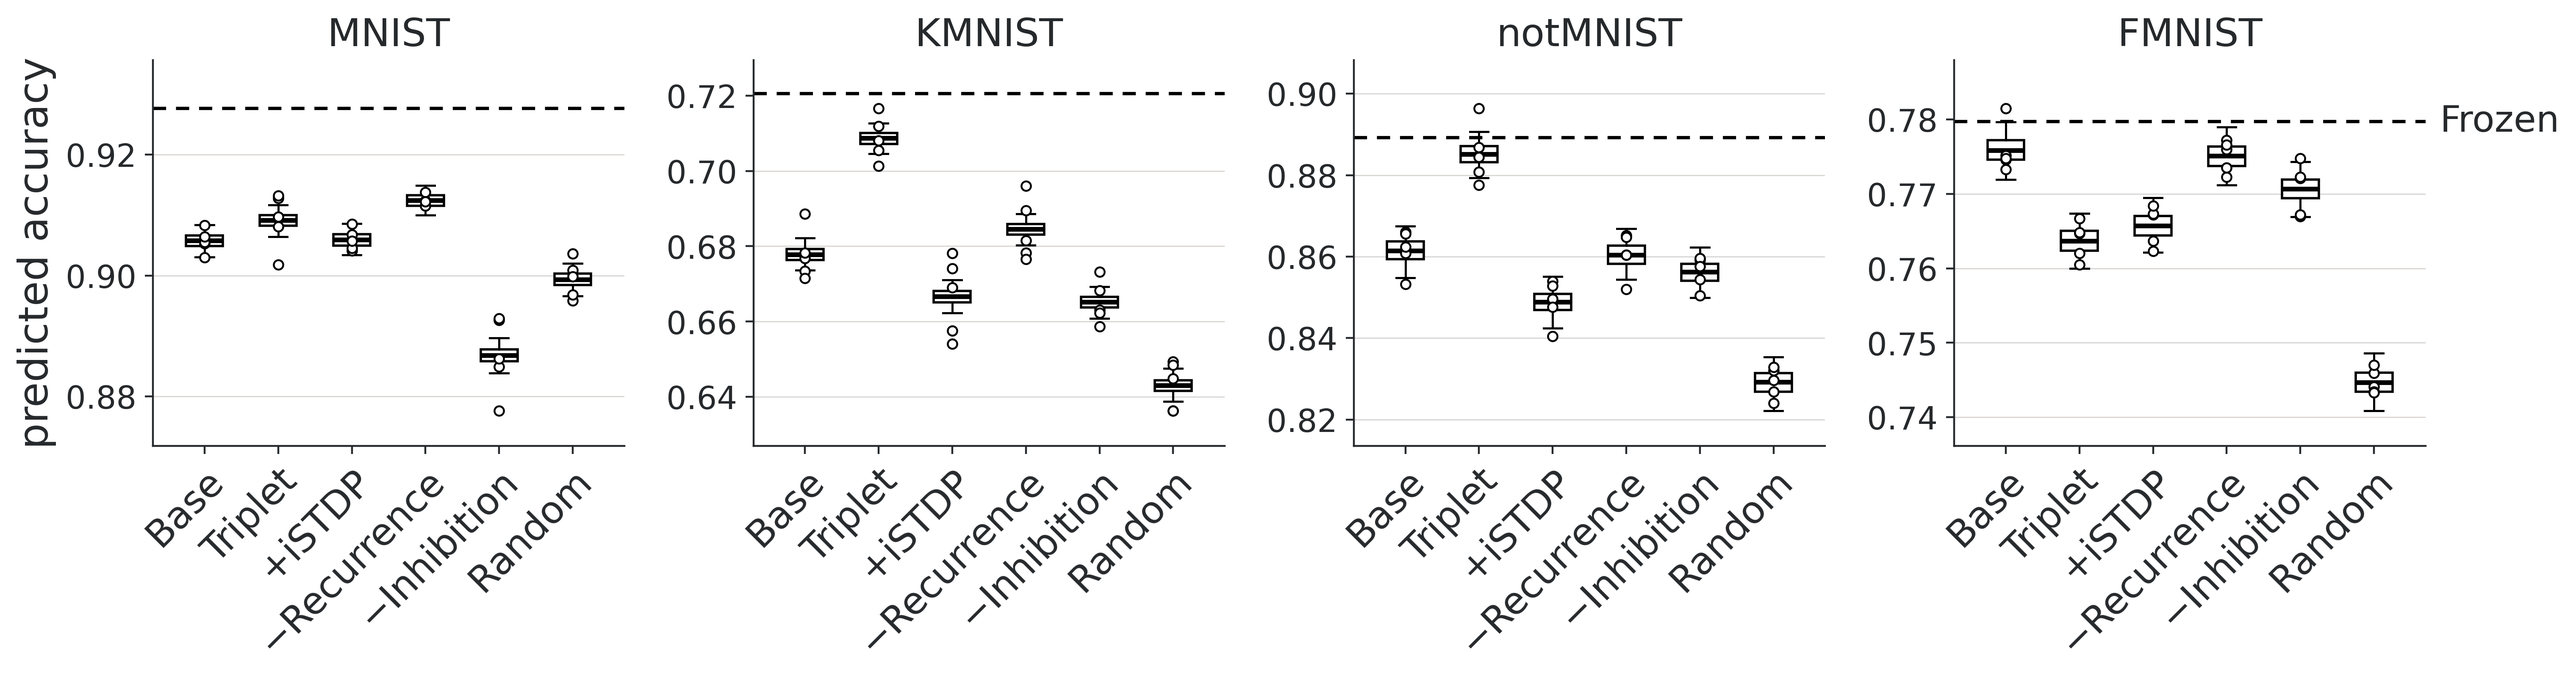
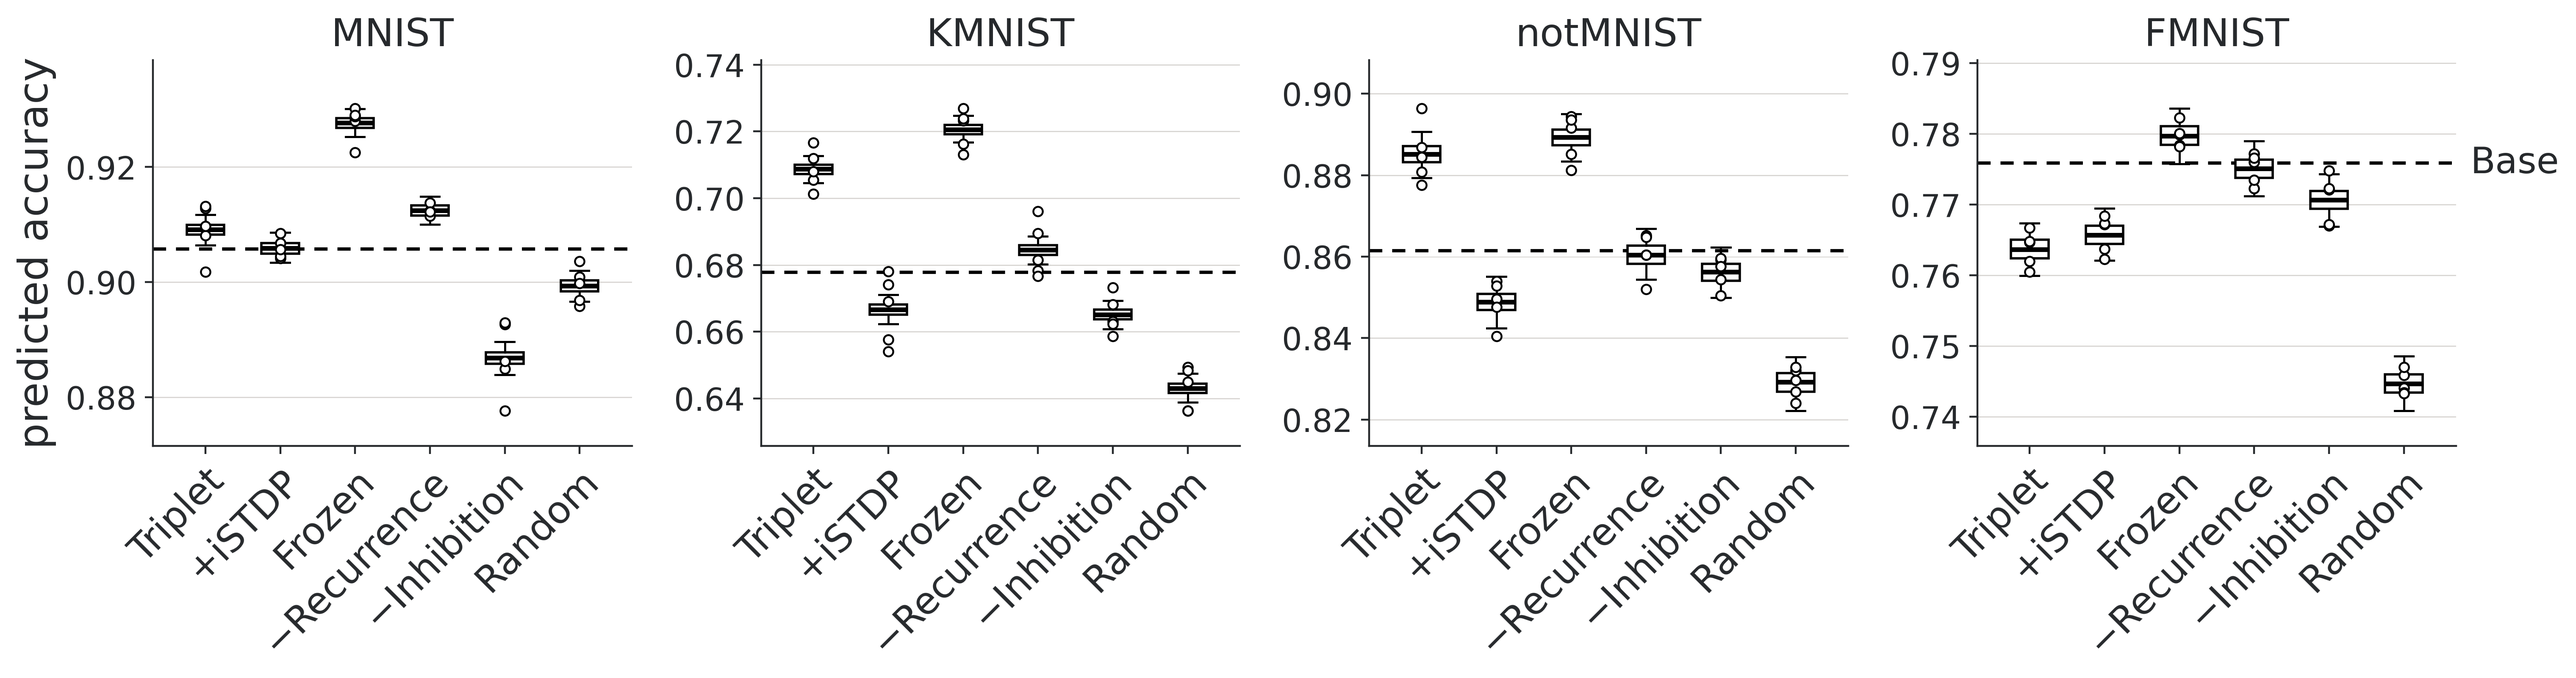
Phase 1 GLMM: reference the base configuration instead of frozen weights
Base (trace-STDP, E->E recurrence, I->E inhibition, oriented prior, plastic
weights) is now the reference level of the ablation factor, so every
configuration coefficient is one change from it. A reparameterization only:
cell predictions are unchanged.

- tab_glmm_phase1: intercept = base on MNIST; frozen and random init are rows
- tab_phase1: one block of single changes against base, grouped as learning
  rule / connectivity / prior; the RF contrast is the random-init row
- fig_phase1_predicted: base is the dashed reference, frozen gets a box
- methods_glmm: state the new reference level

The R fit scripts (results/interp/model/*.R) are gitignored and were updated
in place.

diff --git a/experiments/RF_article/make_tables.py b/experiments/RF_article/make_tables.py
@@ -17,9 +17,8 @@ Sources:
     <phase2 runs>/results.json                  selective-prediction coverage, per seed
 
 Tables written to results/tables/:
-    tab_phase1.tex           mechanism ablations vs frozen, plus the RF-vs-random
-                             contrast (one table: the second was a difference of two
-                             rows of the first)
+    tab_phase1.tex           every single change against the base configuration,
+                             the RF-vs-random contrast included as its own row
     tab_phase2_prior.tex     oriented vs random under R-STDP, both decoders
     tab_selective.tex        coverage attainable at three accuracy targets
 
@@ -39,8 +38,8 @@ DS = ["mnist", "fmnist", "kmnist", "notmnist"]
 PRETTY = {"mnist": "MNIST", "fmnist": "Fashion", "kmnist": "KMNIST",
           "notmnist": "notMNIST", "svhn": "SVHN"}
 COND = {"base_ori": "trace-STDP", "triplet": "triplet-STDP", "vogels": "+ iSTDP (Vogels)",
-        "ee_off": "no E$\\to$E recurrence", "ie_off": "no I$\\to$E inhibition",
-        "base_rnd": "trace-STDP, random init"}
+        "frozen": "frozen weights", "ee_off": "no E$\\to$E recurrence",
+        "ie_off": "no I$\\to$E inhibition", "base_rnd": "random initialization"}
 
 
 def load_draws():
@@ -93,52 +92,47 @@ def write(name, body):
 
 # ------------------------------------------------------- table 1 (phase 1, merged)
 
-# Mechanism ablations: oriented prior throughout, so each row changes exactly one thing
-# against the oriented frozen reference. base_rnd is deliberately NOT here -- it changes
-# the prior AND the rule at once, so it is not comparable to these rows and appears below
-# as the prior contrast instead.
-LADDER = ["base_ori", "triplet", "vogels", "ee_off", "ie_off"]
+# Single changes from the base configuration (trace-STDP, E->E recurrence, I->E inhibition,
+# oriented prior, plastic weights), which is the GLMM's reference level. Every other cell
+# differs from base in exactly one thing, so with base as the reference the prior contrast
+# (base_rnd) sits in the same block as the mechanism ablations instead of needing its own.
+# Grouped as in the phase-1 figure: learning rule, connectivity, prior.
+GROUPS = [("learning rule", ["triplet", "vogels", "frozen"]),
+          ("connectivity", ["ee_off", "ie_off"]),
+          ("prior", ["base_rnd"])]
+LADDER = [c for _, cs in GROUPS for c in cs]
 
 
 def tab_phase1(D):
-    """One phase-1 table: mechanism ablations against frozen, then the prior contrast.
+    """One phase-1 table: each single change against the base configuration.
 
-    These were two tables until it became clear the second was a difference of two rows of
-    the first -- base_ori-frozen minus base_rnd-frozen reproduces the prior contrast to the
-    last reported decimal on all five datasets. Only the interval is new information, since
-    the two cells covary and the width of a difference cannot be read off two separate
-    intervals. So the contrast keeps a row, and the redundant table goes.
+    The reference used to be frozen weights, which put the receptive-field contrast in a
+    second block (its reference was random connectivity). Against base, that contrast is
+    just the random-initialization row, with its sign flipped.
     """
     rows = []
-    for cond in LADDER:
-        cells = [f"${c[0]:+.2f}{stars(c[3])}$" if (c := contrast(D, cond, "frozen", ds))
-                 else "--" for ds in DS]
-        rows.append(f"{COND[cond]} & " + " & ".join(cells) + " \\\\")
-    prior = []
-    for ds in DS:
-        c = contrast(D, "base_ori", "base_rnd", ds)
-        prior.append("--" if c is None else f"${c[0]:+.2f}{stars(c[3])}$")
+    for name, conds in GROUPS:
+        rows.append(f"\\multicolumn{{5}}{{l}}{{\\emph{{{name}}}}} \\\\")
+        for cond in conds:
+            cells = [f"${c[0]:+.2f}{stars(c[3])}$" if (c := contrast(D, cond, "base_ori", ds))
+                     else "--" for ds in DS]
+            rows.append(f"{COND[cond]} & " + " & ".join(cells) + " \\\\")
     header = " & ".join(PRETTY[d] for d in DS)
     # RAW f-string: in a normal one "\begin" is a backspace and "\toprule" a tab, which
     # silently emits control characters into the .tex instead of LaTeX commands.
     return rf"""\begin{{table}}[t]
 \centering
-\caption{{Unsupervised model, in percentage points of accuracy on the linear probe.
-The upper block compares each plastic configuration against frozen weights, holding the
-oriented prior fixed, so every row changes one mechanism. The lower block is the
-receptive-field contrast, holding trace-STDP fixed and changing only the initialization;
-it is reported separately because its reference is random connectivity rather than frozen
-weights. Entries without a marker have intervals spanning zero.}}
+\caption{{Unsupervised model, in percentage points of accuracy on the linear probe,
+against the base configuration: trace-STDP with E$\to$E recurrence and I$\to$E inhibition,
+oriented prior and plastic weights. Every row changes one thing from base, so a positive
+entry means that change improves on it. Entries without a marker have intervals spanning
+zero.}}
 \label{{tab:phase1}}
 \begin{{tabular}}{{lrrrr}}
 \toprule
 & {header} \\
 \midrule
-\multicolumn{{5}}{{l}}{{\emph{{against frozen weights, oriented prior}}}} \\
 {chr(10).join(rows)}
-\midrule
-\multicolumn{{5}}{{l}}{{\emph{{against random connectivity, trace-STDP}}}} \\
-oriented receptive fields & {" & ".join(prior)} \\
 \bottomrule
 \end{{tabular}}
 
@@ -247,8 +241,9 @@ def main():
         c = contrast(D, "base_ori", "base_rnd", ds)
         print(f"  {PRETTY[ds]:<9} {c[0]:+6.2f} pp [{c[1]:+6.2f},{c[2]:+6.2f}] p={c[3]:.4f}")
     print("\n--- phase 1: best plastic - frozen ---")
+    plastic = ["base_ori"] + [c for c in LADDER if c not in ("frozen", "base_rnd")]
     for ds in DS:
-        best = max(LADDER, key=lambda c: D[("1", "probe", ds, c)].mean())
+        best = max(plastic, key=lambda c: D[("1", "probe", ds, c)].mean())
         c = contrast(D, best, "frozen", ds)
         print(f"  {PRETTY[ds]:<9} {best:<9} {c[0]:+6.2f} pp "
               f"[{c[1]:+6.2f},{c[2]:+6.2f}] p={c[3]:.4f}")

diff --git a/results/tables/tab_glmm_phase1.tex b/results/tables/tab_glmm_phase1.tex
@@ -1,31 +1,56 @@
 \footnotesize{
-\begin{longtable}{lrrrr}
+\begin{longtable}{lrrrl}
     \caption{Phase 1 beta-binomial GLMM of linear-probe accuracy: fixed-effect estimates
-    on the logit scale. The reference cell is frozen weights on MNIST. The MNIST column
-    gives each configuration's main effect; the remaining columns give its interaction
-    with that dataset, i.e.\ how much the effect shifts there.\label{tab:glmm_phase1}}\\
+    on the logit scale. The reference cell is the base configuration (trace-STDP with
+    E$\to$E recurrence and I$\to$E inhibition, oriented prior, plastic weights) on MNIST,
+    so each \textit{configuration} row is the effect on MNIST of changing that one
+    component and each interaction row is how that effect changes on the named
+    dataset.\label{tab:glmm_phase1}}\\
     \toprule
-    \textbf{Fixed effect} & MNIST & Fashion & KMNIST & notMNIST\\
+    \textbf{Fixed effect} & Est. & \textit{z} & \textit{p}$_{\text{Holm}}$ & \\
     \midrule
     \endfirsthead
     \toprule
-    Fixed effect & MNIST & Fashion & KMNIST & notMNIST\\
+    Fixed effect & Est. & \textit{z} & \textit{p}$_{\text{Holm}}$ & \\
     \midrule
     \endhead
-    Intercept / dataset & {\scriptsize$\hat{\beta}_{0}$:} 2.552$^{***}$ & {\scriptsize$\hat{\beta}_{7}$:} $-$1.288$^{***}$ & {\scriptsize$\hat{\beta}_{8}$:} $-$1.604$^{***}$ & {\scriptsize$\hat{\beta}_{9}$:} $-$.469$^{***}$\\
-    \multicolumn{5}{l}{\textit{Configuration (vs.\ frozen weights)}}\\
-    trace-STDP & {\scriptsize$\hat{\beta}_{1}$:} $-$.290$^{***}$ & {\scriptsize$\hat{\beta}_{10}$:} .267$^{***}$ & {\scriptsize$\hat{\beta}_{16}$:} .085$^{**}$ & {\scriptsize$\hat{\beta}_{22}$:} .036\\
-    triplet-STDP & {\scriptsize$\hat{\beta}_{5}$:} $-$.249$^{***}$ & {\scriptsize$\hat{\beta}_{14}$:} .158$^{***}$ & {\scriptsize$\hat{\beta}_{20}$:} .190$^{***}$ & {\scriptsize$\hat{\beta}_{26}$:} .209$^{***}$\\
-    + iSTDP & {\scriptsize$\hat{\beta}_{6}$:} $-$.287$^{***}$ & {\scriptsize$\hat{\beta}_{15}$:} .207$^{***}$ & {\scriptsize$\hat{\beta}_{21}$:} .032 & {\scriptsize$\hat{\beta}_{27}$:} $-$.070\\
-    no E$\to$E & {\scriptsize$\hat{\beta}_{3}$:} $-$.208$^{***}$ & {\scriptsize$\hat{\beta}_{12}$:} .181$^{***}$ & {\scriptsize$\hat{\beta}_{18}$:} .035 & {\scriptsize$\hat{\beta}_{24}$:} $-$.055\\
-    no I$\to$E & {\scriptsize$\hat{\beta}_{4}$:} $-$.493$^{***}$ & {\scriptsize$\hat{\beta}_{13}$:} .441$^{***}$ & {\scriptsize$\hat{\beta}_{19}$:} .232$^{***}$ & {\scriptsize$\hat{\beta}_{25}$:} .195$^{***}$\\
-    random & {\scriptsize$\hat{\beta}_{2}$:} $-$.362$^{***}$ & {\scriptsize$\hat{\beta}_{11}$:} .168$^{***}$ & {\scriptsize$\hat{\beta}_{17}$:} .003 & {\scriptsize$\hat{\beta}_{23}$:} $-$.142$^{**}$\\
+    $\hat{\beta}_0$ (intercept) & 2.262 & 143.84 & $<.001$ & ***\\
+    \multicolumn{5}{l}{\textit{Configuration (vs.\ base)}}\\
+    $\hat{\beta}_{1}$ (random init) & $-$.072 & $-$3.28 & $.013$ & *\\
+    $\hat{\beta}_{2}$ (no E$\to$E) & .082 & 3.61 & $.004$ & **\\
+    $\hat{\beta}_{3}$ (frozen weights) & .290 & 12.22 & $<.001$ & ***\\
+    $\hat{\beta}_{4}$ (no I$\to$E) & $-$.203 & $-$9.50 & $<.001$ & ***\\
+    $\hat{\beta}_{5}$ (triplet-STDP) & .041 & 1.82 & $.224$ & \\
+    $\hat{\beta}_{6}$ (+ iSTDP) & .003 & 0.12 & $.908$ & \\
+    \multicolumn{5}{l}{\textit{Dataset (vs.\ MNIST)}}\\
+    $\hat{\beta}_{7}$ (FMNIST) & $-$1.020 & $-$53.13 & $<.001$ & ***\\
+    $\hat{\beta}_{8}$ (KMNIST) & $-$1.519 & $-$81.89 & $<.001$ & ***\\
+    $\hat{\beta}_{9}$ (notMNIST) & $-$.434 & $-$14.24 & $<.001$ & ***\\
+    \multicolumn{5}{l}{\textit{Configuration $\times$ dataset}}\\
+    $\hat{\beta}_{10}$ (random init$\times$FMNIST) & $-$.099 & $-$3.71 & $.003$ & **\\
+    $\hat{\beta}_{11}$ (no E$\to$E$\times$FMNIST) & $-$.086 & $-$3.13 & $.018$ & *\\
+    $\hat{\beta}_{12}$ (frozen weights$\times$FMNIST) & $-$.267 & $-$9.40 & $<.001$ & ***\\
+    $\hat{\beta}_{13}$ (no I$\to$E$\times$FMNIST) & .174 & 6.57 & $<.001$ & ***\\
+    $\hat{\beta}_{14}$ (triplet-STDP$\times$FMNIST) & $-$.109 & $-$4.01 & $.001$ & **\\
+    $\hat{\beta}_{15}$ (+ iSTDP$\times$FMNIST) & $-$.060 & $-$2.21 & $.192$ & \\
+    $\hat{\beta}_{16}$ (random init$\times$KMNIST) & $-$.083 & $-$3.20 & $.015$ & *\\
+    $\hat{\beta}_{17}$ (no E$\to$E$\times$KMNIST) & $-$.051 & $-$1.91 & $.224$ & \\
+    $\hat{\beta}_{18}$ (frozen weights$\times$KMNIST) & $-$.085 & $-$3.09 & $.018$ & *\\
+    $\hat{\beta}_{19}$ (no I$\to$E$\times$KMNIST) & .146 & 5.74 & $<.001$ & ***\\
+    $\hat{\beta}_{20}$ (triplet-STDP$\times$KMNIST) & .105 & 3.96 & $.001$ & **\\
+    $\hat{\beta}_{21}$ (+ iSTDP$\times$KMNIST) & $-$.053 & $-$2.02 & $.221$ & \\
+    $\hat{\beta}_{22}$ (random init$\times$notMNIST) & $-$.178 & $-$4.27 & $<.001$ & ***\\
+    $\hat{\beta}_{23}$ (no E$\to$E$\times$notMNIST) & $-$.090 & $-$2.09 & $.221$ & \\
+    $\hat{\beta}_{24}$ (frozen weights$\times$notMNIST) & $-$.036 & $-$0.79 & $.864$ & \\
+    $\hat{\beta}_{25}$ (no I$\to$E$\times$notMNIST) & .159 & 3.75 & $.003$ & **\\
+    $\hat{\beta}_{26}$ (triplet-STDP$\times$notMNIST) & .173 & 3.89 & $.002$ & **\\
+    $\hat{\beta}_{27}$ (+ iSTDP$\times$notMNIST) & $-$.105 & $-$2.48 & $.106$ & \\
     \midrule
     \multicolumn{5}{l}{\textbf{Random effect variance}}\\
     Seed & \multicolumn{2}{r}{---} & &\\
     \multicolumn{5}{l}{\textbf{Dispersion}}\\
     Model & \multicolumn{2}{r}{$\hat{\phi}=1.8\times 10^{5}$} & &\\
     \bottomrule
-    \caption*{The intercept row gives the intercept and the dataset main effects. Significance: * $p<.05$, ** $p<.01$, *** $p<.001$. The seed intercept was singular and was dropped. The estimated dispersion is large, so the fit is effectively binomial.}
+    \caption*{$p$-values are Holm-adjusted over the 27 fixed effects other than the intercept. Significance: * $p<.05$, ** $p<.01$, *** $p<.001$. The seed intercept was singular and was dropped. The estimated dispersion is large, so the fit is effectively binomial.}
 \end{longtable}
 }

diff --git a/experiments/RF_article/interp/plot_phase1_predicted.py b/experiments/RF_article/interp/plot_phase1_predicted.py
@@ -54,20 +54,20 @@ def glyph(ax,x,y,c,label,fs,hw=.055,bh=.030,wh=.058):
 
 DS=["mnist","kmnist","notmnist","fmnist"]
 NICE={"mnist":"MNIST","kmnist":"KMNIST","notmnist":"notMNIST","fmnist":"FMNIST","svhn":"SVHN"}
-# frozen is the dashed reference line only -- drawing it as a box too would show the same
-# cell twice. Colour then carries the one thing the x labels do not say: which weight
-# configuration sits underneath. Matches the phase-2 figure (rose = oriented, slate = random).
-# Base first; every other label names its one change from Base: + adds a component,
-# − removes one, a bare name replaces one. Grouped as learning rule, connectivity, prior.
-ORDER=["base_ori","triplet","vogels","ee_off","ie_off","base_rnd"]
-LBL={"base_ori":"Base","triplet":"Triplet","vogels":"+iSTDP","ee_off":"−Recurrence",
+# Base is the GLMM's reference level and the dashed reference line only -- drawing it as a
+# box too would show the same cell twice. Every box names its one change from Base:
+# + adds a component, − removes one, a bare name replaces one. Grouped as learning rule,
+# connectivity, prior.
+REF="base_ori"
+ORDER=["triplet","vogels","frozen","ee_off","ie_off","base_rnd"]
+LBL={"triplet":"Triplet","vogels":"+iSTDP","frozen":"Frozen","ee_off":"−Recurrence",
      "ie_off":"−Inhibition","base_rnd":"Random"}
 COL={c:("random" if c=="base_rnd" else "oriented") for c in ORDER}
 
 fig,axes=plt.subplots(1,4,figsize=(15.5,4.3))
 flat=axes.ravel()
 for j,(ax,ds) in enumerate(zip(flat,DS)):
-    fz=np.mean(D[(1,"probe",ds,"frozen")])
+    fz=np.mean(D[(1,"probe",ds,REF)])
     for i,cd in enumerate(ORDER):
         v=D[(1,"probe",ds,cd)]
         if not v: continue
@@ -75,8 +75,7 @@ for j,(ax,ds) in enumerate(zip(flat,DS)):
         o=O[(1,"probe",ds,cd)]
         ax.scatter(np.full(len(o),i),o,s=16,marker=STYLE[COL[cd]][2],facecolors="white",
                    edgecolors="black",linewidths=.8,zorder=5)
-    # Where the frozen value lands on a y-tick (KMNIST 0.7199 against the 0.72 tick,
-    # Fashion 0.7799 against 0.78) the sage dashes and the grey gridline sit two pixels
+    # Where the reference value lands on a y-tick the dashes and the grey gridline sit two pixels
     # apart and blur into one grey rule at print size. A white casing under the reference
     # clears the gridline locally; both sit below the boxes, which draw over them.
     ax.axhline(fz,color="white",lw=5.0,ls="-",zorder=2.4)
@@ -94,8 +93,8 @@ for j,(ax,ds) in enumerate(zip(flat,DS)):
 
 # No legend: the x labels name each box, and the dashed reference is labelled once,
 # to the right of the last panel.
-last=flat[len(DS)-1]; fz_last=np.mean(D[(1,"probe",DS[-1],"frozen")])
-last.annotate("Frozen",xy=(1.0,fz_last),xycoords=("axes fraction","data"),
+last=flat[len(DS)-1]; fz_last=np.mean(D[(1,"probe",DS[-1],REF)])
+last.annotate("Base",xy=(1.0,fz_last),xycoords=("axes fraction","data"),
               xytext=(6,0),textcoords="offset points",ha="left",va="center",
               fontsize=BASE-1,annotation_clip=False)
 fig.tight_layout()

diff --git a/results/tables/tab_phase1.tex b/results/tables/tab_phase1.tex
@@ -1,25 +1,24 @@
 \begin{table}[t]
 \centering
-\caption{Unsupervised model, in percentage points of accuracy on the linear probe.
-The upper block compares each plastic configuration against frozen weights, holding the
-oriented prior fixed, so every row changes one mechanism. The lower block is the
-receptive-field contrast, holding trace-STDP fixed and changing only the initialization;
-it is reported separately because its reference is random connectivity rather than frozen
-weights. Entries without a marker have intervals spanning zero.}
+\caption{Unsupervised model, in percentage points of accuracy on the linear probe,
+against the base configuration: trace-STDP with E$\to$E recurrence and I$\to$E inhibition,
+oriented prior and plastic weights. Every row changes one thing from base, so a positive
+entry means that change improves on it. Entries without a marker have intervals spanning
+zero.}
 \label{tab:phase1}
 \begin{tabular}{lrrrr}
 \toprule
 & MNIST & Fashion & KMNIST & notMNIST \\
 \midrule
-\multicolumn{5}{l}{\emph{against frozen weights, oriented prior}} \\
-trace-STDP & $-2.19^{***}$ & $-0.38$ & $-4.28^{***}$ & $-2.78^{***}$ \\
-triplet-STDP & $-1.86^{***}$ & $-1.60^{***}$ & $-1.19^{***}$ & $-0.41$ \\
-+ iSTDP (Vogels) & $-2.18^{***}$ & $-1.40^{***}$ & $-5.39^{***}$ & $-4.04^{***}$ \\
-no E$\to$E recurrence & $-1.52^{***}$ & $-0.47$ & $-3.61^{***}$ & $-2.88^{***}$ \\
-no I$\to$E inhibition & $-4.09^{***}$ & $-0.91^{**}$ & $-5.54^{***}$ & $-3.31^{***}$ \\
-\midrule
-\multicolumn{5}{l}{\emph{against random connectivity, trace-STDP}} \\
-oriented receptive fields & $+0.64^{***}$ & $+3.12^{***}$ & $+3.48^{***}$ & $+3.24^{***}$ \\
+\multicolumn{5}{l}{\emph{learning rule}} \\
+triplet-STDP & $+0.33$ & $-1.22^{***}$ & $+3.08^{***}$ & $+2.37^{***}$ \\
++ iSTDP (Vogels) & $+0.01$ & $-1.01^{***}$ & $-1.12^{***}$ & $-1.26^{**}$ \\
+frozen weights & $+2.19^{***}$ & $+0.38$ & $+4.28^{***}$ & $+2.78^{***}$ \\
+\multicolumn{5}{l}{\emph{connectivity}} \\
+no E$\to$E recurrence & $+0.67^{***}$ & $-0.08$ & $+0.67^{*}$ & $-0.10$ \\
+no I$\to$E inhibition & $-1.90^{***}$ & $-0.52$ & $-1.27^{***}$ & $-0.53$ \\
+\multicolumn{5}{l}{\emph{prior}} \\
+random initialization & $-0.64^{***}$ & $-3.12^{***}$ & $-3.48^{***}$ & $-3.24^{***}$ \\
 \bottomrule
 \end{tabular}
 

diff --git a/results/methods_glmm.tex b/results/methods_glmm.tex
@@ -23,7 +23,9 @@ interaction, $b_{\mathrm{seed}(i)} \sim \mathcal{N}(0, \sigma^2_{\mathrm{seed}})
 per-seed random intercept, and $\phi > 0$ the dispersion parameter, with the binomial case
 recovered as $\phi \to \infty$. The phases differ only in what $c$ encodes and in which
 decoder supplies $y_i$. In Phase 1, $c$ is the seven-level ablation factor referenced to
-the frozen configuration, and $y_i$ comes from the linear probe, which is the only decoder
+the base configuration (trace-STDP with recurrence and lateral inhibition, oriented prior,
+plastic weights), so that each other level is a single change from it, and $y_i$ comes
+from the linear probe, which is the only decoder
 the ungrouped unsupervised architecture admits. In Phase 2, $c$ is the prior, oriented or
 random and referenced to random, and we fit the model separately to the learned readout and
 to the probe. In both cases we test the configuration $\times$ dataset interaction by a
